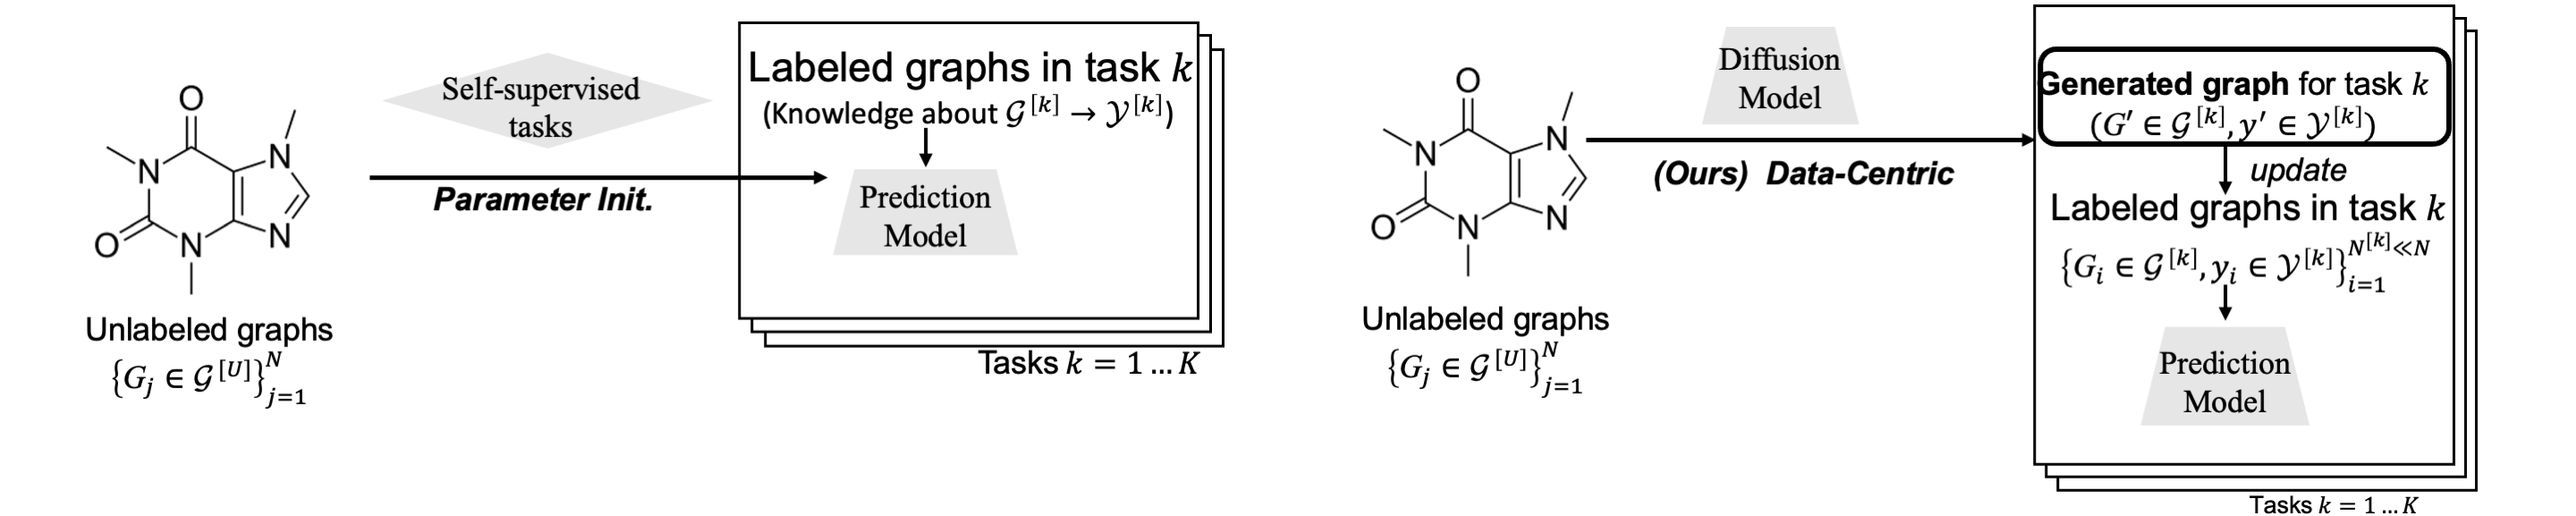
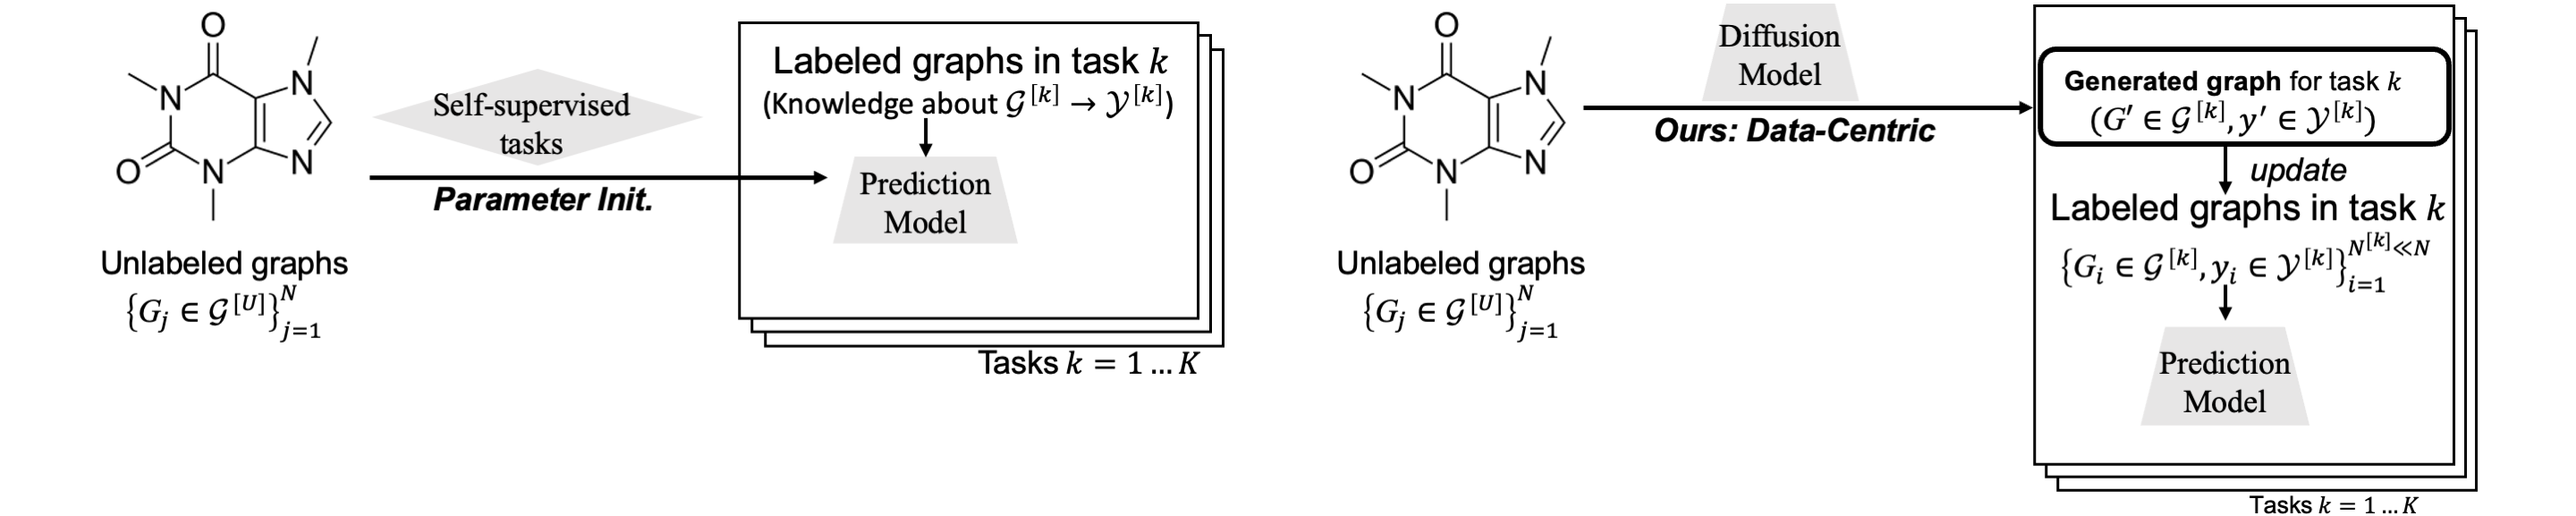
init

diff --git a/README.md b/README.md
@@ -29,7 +29,7 @@ python main.py --dataset ogbg-molsider
 
 The dataset name can be any of `['plym-density', 'plym-oxygen','plym-melting', 'plym-glass', 'plym-thermal', 'ogbg-mollipo', 'ogbg-molfreesolv', 'ogbg-molesol', 'ogbg-molhiv', 'ogbg-molbace', 'ogbg-molbbbp', 'ogbg-molclintox','ogbg-molsider','ogbg-moltox21','ogbg-moltoxcast']`
 
-We use `n_jobs=22` by default to covnert the generated molecules to the PyG-style data format with 22 processes. Please adjust this hyper-parameter in accordance with the available CPU cores.
+We use `n_jobs=22` by default to covnert the generated molecules to the PyG-style data objectives with 22 processes. Please adjust this hyper-parameter in accordance with the available CPU cores.
 
 ## Citation
 
